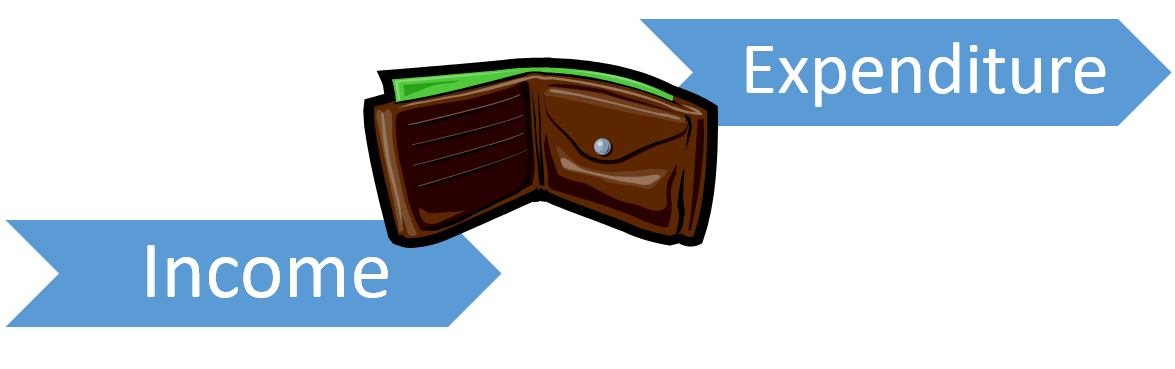
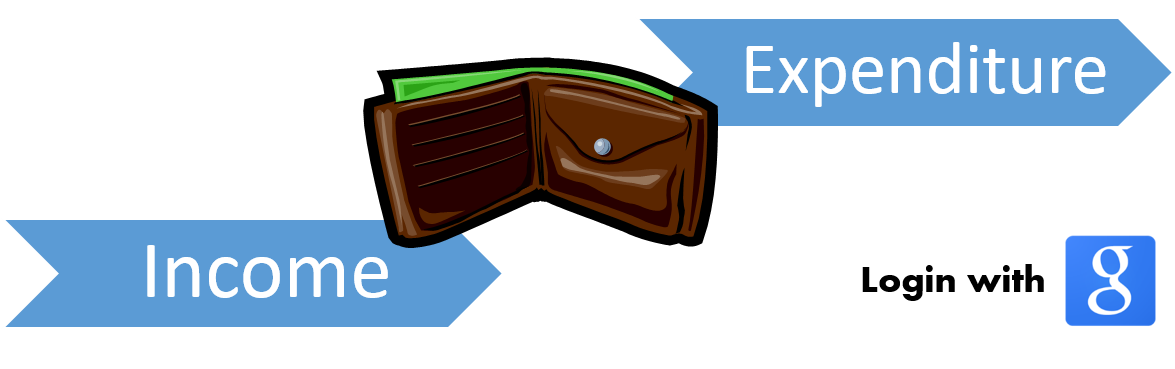
homepage and user page with login bug

Changed region(s): [[0.7353, 0.626, 1.0, 0.8943]]

diff --git a/stylesheets/main.css b/stylesheets/main.css
@@ -1,33 +1,16 @@
-/* For the top bar */
-.top-container {
-    height: 100px;
-    position: relative;
+table.menu{
+		width: 300px;
+		text-align: center;
+		background-color: #FF9900;
+		font-size: 40px;
+		vertical-align: middle;
 }
 
-/* For the logo */
-.logo {
-    height:100px;
-}
-
-/* For the sign-in on the right of the top bar */
-.signin-align {
-    position: absolute;
-    bottom: 0;
-    text-align: right;
-    padding-right: 40px;
-}
-
-/* For the picture of the gift */
-.giftpic {
-    height: 350px;
-}
-
-/* Shift the text down 1cm */
-.top-pad-one {
-    margin-top: 1cm;
-}
-
-/* For image of item */
-.itemimage {
-    height: 100px
+table.content{
+	width: 750px;
+	height: 200px;
+	text-align: center;
+	background-color: #FFE599;
+	font-size: 40px;
+	vertical-align: middle;
 }

diff --git a/templates/userhomepage.html b/templates/userhomepage.html
@@ -1,0 +1,31 @@
+<html>
+<head>
+	<title> $AVER - user</title>
+	<link type="text/css" rel="stylesheet" href="../stylesheets/main.css">
+</head>
+<body>
+	<div align="center">
+		<a href = "/user"><img src="../images/header.png"></a>
+		</br>
+		</br>
+		<span>{{user_mail}}<a href="{{logout}}">logout</a></span>
+		<table>
+		<tr>
+		<td>
+			<table  class = "menu">
+			<tr><td>Manage</td></tr>
+			<tr><td>Overview</td></tr>
+			<tr><td>Leaderboard</td></tr>
+			<tr><td>About</td></tr>
+			</table>
+		</td>
+		<td>
+			<table class = "content">
+			<tr><td><u>Overview</u></td></tr>
+			</table>
+		</td>
+		</tr>
+		</table>
+	</div>
+</body>
+</html>

diff --git a/templates/homepage.html b/templates/homepage.html
@@ -1,12 +1,19 @@
-<!-- Front page for Giftbook -->
+<!-- Front page for $AVER -->
 <!DOCTYPE HTML>
 <html>
 <head>
-    <title> $AVER</title>
+    <title> $AVER - home</title>
 </head>
 <body>
+	</br>
 	<div align="center">
-		<img src="../images/homepage.png">
+		<img src="../images/header.png">
+	</div>
+	</br>
+	</br>
+	</br>
+	<div align="center">
+		<a href = "/user"><img src="../images/homepage.png"></a>
 	</div>
 </body>
 </html>

diff --git a/saver.py b/saver.py
@@ -2,17 +2,25 @@ import webapp2
 import jinja2
 import os
 
+from google.appengine.api import users
+
 jinja_environment = jinja2.Environment(
     loader=jinja2.FileSystemLoader(os.path.dirname(__file__) + "/templates"))
 
-
-class MainPage(webapp2.RequestHandler):
-    """ Handler for the front page."""
+class UserPage(webapp2.RequestHandler):
+    """ Handler for the front page after user login."""
 
     def get(self):
-        template = jinja_environment.get_template('homepage.html')
-        self.response.out.write(template.render())
+        user = users.get_current_user()
+        if user: #signed in already
+            template_values = {
+                'user_mail': users.get_current_user().email(),
+                'logout': users.create_logout_url(self.request.host_url),
+            }
+            template = jinja_environment.get_template('userhomepage.html')
+            self.response.out.write(template.render())
+        else:
+            self.redirect(self.request.host_url)
 
-
-app = webapp2.WSGIApplication([('/', MainPage)],
+app = webapp2.WSGIApplication([('/user', UserPage)],
                               debug=True)

diff --git a/front.py b/front.py
@@ -1,0 +1,18 @@
+import webapp2
+import jinja2
+import os
+
+jinja_environment = jinja2.Environment(
+    loader=jinja2.FileSystemLoader(os.path.dirname(__file__) + "/templates"))
+
+
+class MainPage(webapp2.RequestHandler):
+    """ Handler for the front page."""
+
+    def get(self):
+        template = jinja_environment.get_template('homepage.html')
+        self.response.out.write(template.render())
+
+app = webapp2.WSGIApplication([('/', MainPage)],
+                              debug=True)
+
